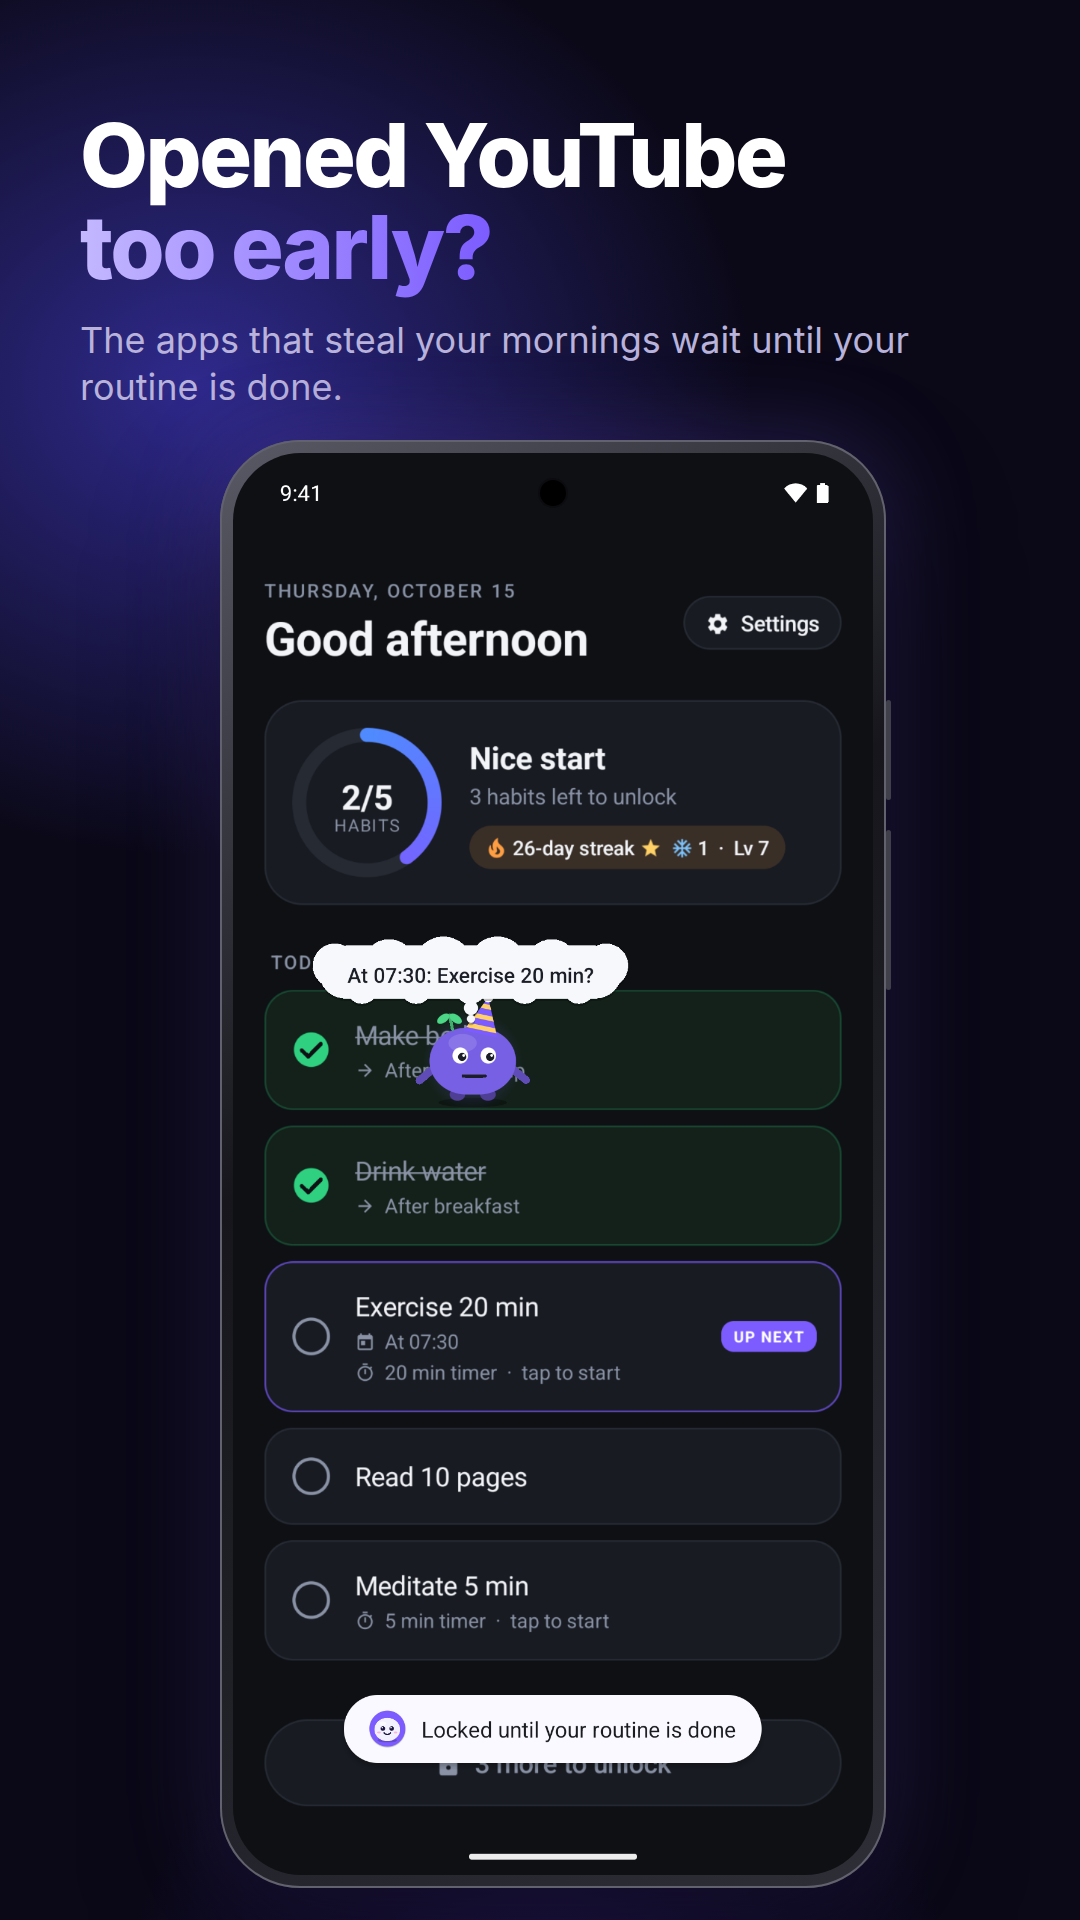
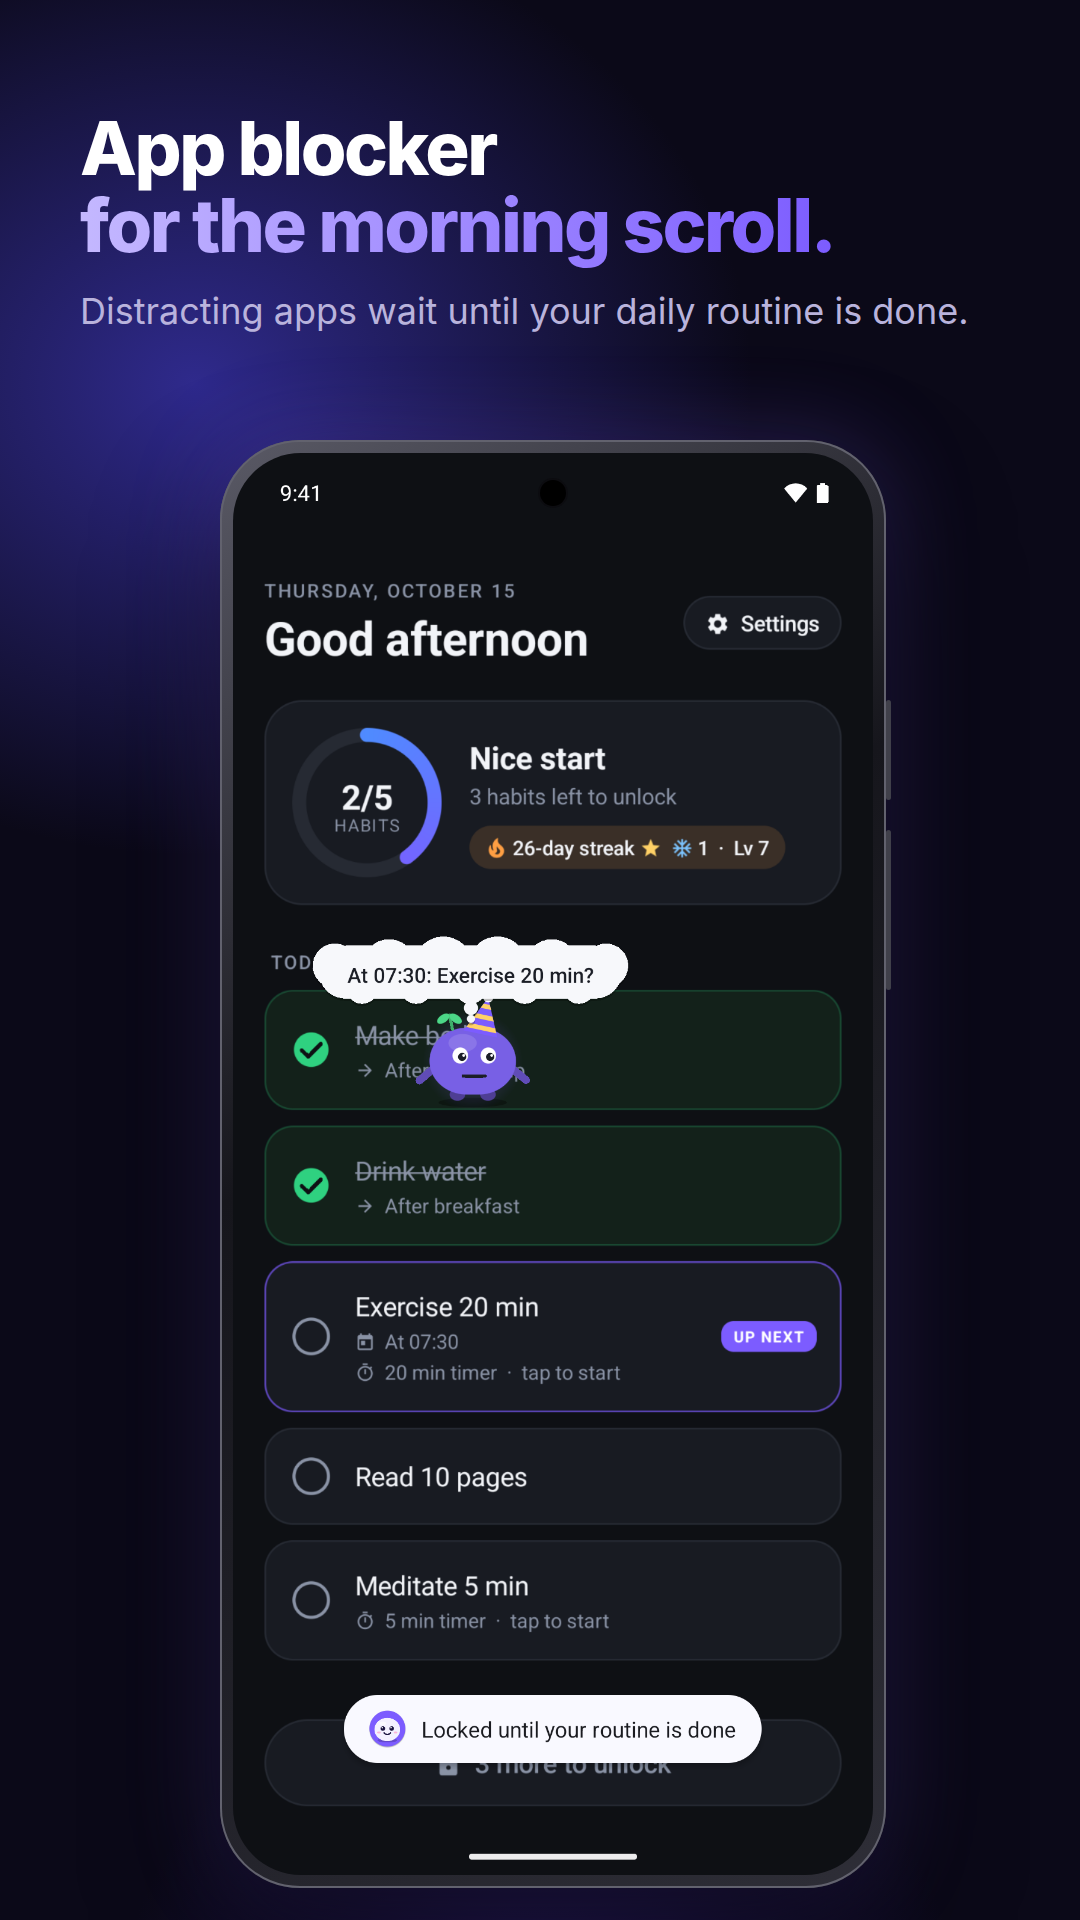
Store listing: keyword-led text and captions, drop third-party app screenshot
Title, short and full descriptions lead with habit tracker / app blocker in
en, es and ca. Screenshot captions carry the search terms and no longer name
YouTube; the buddy-over-Maps screenshot is gone (7 per language). PLAY.md
gains an ASO section.

Claude-Session: https://claude.ai/code/session_01CoAQuG2sDkjkLZrpnx3icQ

Changed region(s): [[0.0611, 0.0625, 0.8861, 0.2188]]

diff --git a/store/PLAY.md b/store/PLAY.md
@@ -9,7 +9,7 @@ variant: no root code). Upload `mingui.aab` built with `./build.sh play aab` (si
 |---|---|---|
 | App icon | `icon-512.png` | 512×512 PNG |
 | Feature graphic | `feature-graphic.png` | 1024×500 |
-| Phone screenshots (per language) | `en/`, `es/`, `ca/` `01_…`–`08_…png` | 1080×1920, 8 each |
+| Phone screenshots (per language) | `en/`, `es/`, `ca/` `01_…`–`07_…png` | 1080×1920, 7 each. The first three show in search results, so they lead with the two search terms (habit tracker, app blocker) |
 | Promo video | `promo/mingui-promo-{en,es,ca}.mp4` | **Play only takes a YouTube URL**: upload there (unlisted is fine) and paste the link |
 
 The promo videos are rendered from `../promo/promo.html` (see `../promo/render.py`) and kept out of git; they're attached to the GitHub release.
@@ -21,116 +21,125 @@ The promo videos are rendered from `../promo/promo.html` (see `../promo/render.p
 **App name** (30 max): `Mingui: Habits & App Blocker`
 
 **Short description** (80 max):
-`Finish today's habits first. Then your distracting apps unlock. 100% offline.`
+`Habit tracker & app blocker: finish your daily routine, then your apps unlock.`
 
 **Full description:**
 
 ```
-Mingui is a daily habit checklist with a little buddy, and it keeps your most distracting apps locked until today's routine is done.
+Mingui is a habit tracker and app blocker in one: a daily routine checklist with a little buddy that keeps your most distracting apps locked until today's habits are done. Build a morning routine that sticks and cut your screen time without the willpower battle.
 
-FINISH FIRST, SCROLL LATER
-Pick the apps that eat your mornings. Open one too early and your checklist covers it. Tick off your habits and they unlock straight away.
+FINISH YOUR HABITS FIRST, SCROLL LATER
+Pick the apps that eat your mornings: social media, videos, games. Open one too early and your habit checklist covers it. Tick off your daily habits and the blocked apps unlock straight away.
 
-A CHECKLIST THAT STICKS
+A HABIT TRACKER THAT STICKS
 • Timers for habits you want to really do, not just tick
 • Weekday schedules, rest days and partial credit
-• Streak freezes, so one bad day doesn't wreck your streak
+• Streak freezes, so one bad day doesn't break your habit streak
 • Forgot to tick something? Fix yesterday
-• Edits that would make today easier start tomorrow, so the routine stays honest
+• Honest edits: changes that would make today's routine easier start tomorrow
+
+AN APP BLOCKER THAT'S FAIR
+• Block any app until your routine is done; work apps can stay allowed
+• Optional focus lock pulls you back to your checklist, with three 5-minute breaks a day
+• "Pause for today" is always there as an emergency exit
 
 A BUDDY ON YOUR SCREEN
 Your buddy walks around your phone, cheers you on and levels up with you. Unlock colours, hats and entrances as your streak grows.
 
-STREAKS & STATS
-A 12-week heatmap, your best streak and the habits that need some love.
-
-FOCUS LOCK (OPTIONAL)
-Pulls you back to the checklist if you wander off, with three 5-minute breaks a day. "Pause for today" is always there as an emergency exit.
+HABIT STREAKS & STATS
+A 12-week habit heatmap, your best streak and the habits that need some love.
 
 100% OFFLINE, NO ACCOUNTS
 Mingui doesn't have Android's internet permission, so it can't send anything anywhere. No accounts, ads, analytics or trackers. Your habits stay on your phone.
 
-Also: a home-screen widget, backups to a file you keep, and English, Spanish and Catalan.
+ALSO INCLUDED
+A home-screen widget, backups to a file you keep, and English, Spanish and Catalan. Open source (GPL-3.0): github.com/abysstudio/mingui
 
-Open source (GPL-3.0): github.com/abysstudio/mingui
+Install Mingui, add three habits for tomorrow morning and get your mornings back.
 ```
 
 ### Español (es-ES)
 
-**Nombre**: `Mingui: Hábitos y bloqueo`
+**Nombre**: `Mingui: Hábitos, bloquea apps`
 
 **Descripción breve**:
-`Primero tus hábitos de hoy. Luego tus apps se desbloquean. 100 % sin conexión.`
+`Hábitos diarios y bloqueo de apps: acaba tu rutina y tus apps se desbloquean.`
 
 **Descripción completa:**
 
 ```
-Mingui es una lista de hábitos diarios con una pequeña mascota, y mantiene bloqueadas las apps que más te distraen hasta que terminas la rutina de hoy.
+Mingui es un registro de hábitos y un bloqueador de apps en uno: una lista de hábitos diarios con una pequeña mascota que mantiene bloqueadas las apps que más te distraen hasta que terminas la rutina de hoy. Crea una rutina de mañana que funcione y reduce tu tiempo de pantalla sin pelearte con tu fuerza de voluntad.
 
-PRIMERO TERMINA, LUEGO SCROLLEA
-Elige las apps que te roban la mañana. Si abres una demasiado pronto, tu lista la tapa. Marca tus hábitos y se desbloquean al momento.
+PRIMERO TUS HÁBITOS, LUEGO EL SCROLL
+Elige las apps que te roban la mañana: redes sociales, vídeos, juegos. Si abres una demasiado pronto, tu lista de hábitos la tapa. Marca tus hábitos diarios y las apps bloqueadas se abren al momento.
 
-UNA LISTA QUE FUNCIONA
+UN REGISTRO DE HÁBITOS QUE FUNCIONA
 • Temporizadores para los hábitos que quieres hacer de verdad
 • Días de la semana, días de descanso y crédito parcial
-• Congeladores de racha, para que un mal día no la rompa
+• Congeladores de racha, para que un mal día no rompa tu racha
 • ¿Olvidaste marcar algo? Corrige el día de ayer
-• Los cambios que harían más fácil el día de hoy empiezan mañana, para que la rutina sea honesta
+• Cambios honestos: lo que haría más fácil la rutina de hoy empieza mañana
+
+UN BLOQUEADOR DE APPS JUSTO
+• Bloquea cualquier app hasta que acabes tu rutina; las apps de trabajo pueden quedar permitidas
+• El modo concentración opcional te devuelve a la lista, con tres descansos de 5 minutos al día
+• «Pausar por hoy» siempre está ahí como salida de emergencia
 
 UNA MASCOTA EN TU PANTALLA
 Tu mascota pasea por el móvil, te anima y sube de nivel contigo. Desbloquea colores, gorros y entradas a medida que crece tu racha.
 
-RACHAS Y ESTADÍSTICAS
+RACHAS Y ESTADÍSTICAS DE HÁBITOS
 Un mapa de 12 semanas, tu mejor racha y los hábitos que necesitan un empujón.
-
-BLOQUEO DE CONCENTRACIÓN (OPCIONAL)
-Te devuelve a la lista si te despistas, con tres descansos de 5 minutos al día. «Pausar por hoy» siempre está ahí como salida de emergencia.
 
 100 % SIN CONEXIÓN, SIN CUENTAS
 Mingui no tiene el permiso de internet de Android, así que no puede enviar nada a ningún sitio. Sin cuentas, anuncios, analíticas ni rastreadores. Tus hábitos se quedan en tu móvil.
 
-Además: widget para la pantalla de inicio, copias de seguridad en un archivo tuyo, y en español, catalán e inglés.
+Y ADEMÁS
+Widget para la pantalla de inicio, copias de seguridad en un archivo tuyo, y en español, catalán e inglés. Código abierto (GPL-3.0): github.com/abysstudio/mingui
 
-Código abierto (GPL-3.0): github.com/abysstudio/mingui
+Instala Mingui, añade tres hábitos para mañana por la mañana y recupera tus mañanas.
 ```
 
 ### Català (ca)
 
-**Nom**: `Mingui: Hàbits i bloqueig`
+**Nom**: `Mingui: Hàbits, bloqueja apps`
 
 **Descripció breu**:
-`Primer els hàbits d'avui. Després les apps es desbloquegen. 100% sense connexió.`
+`Hàbits diaris i bloqueig d'apps: acaba la rutina i les apps es desbloquegen.`
 
 **Descripció completa:**
 
 ```
-Mingui és una llista d'hàbits diaris amb una petita mascota, i manté bloquejades les apps que més et distreuen fins que acabes la rutina d'avui.
+Mingui és un registre d'hàbits i un bloquejador d'apps alhora: una llista d'hàbits diaris amb una petita mascota que manté bloquejades les apps que més et distreuen fins que acabes la rutina d'avui. Crea una rutina de matí que funcioni i redueix el temps de pantalla sense barallar-te amb la força de voluntat.
 
-PRIMER ACABA, DESPRÉS SCROLL
-Tria les apps que et roben el matí. Si n'obres una massa aviat, la llista la tapa. Marca els hàbits i es desbloquegen a l'instant.
+PRIMER ELS HÀBITS, DESPRÉS L'SCROLL
+Tria les apps que et roben el matí: xarxes socials, vídeos, jocs. Si n'obres una massa aviat, la llista d'hàbits la tapa. Marca els hàbits diaris i les apps bloquejades s'obren a l'instant.
 
-UNA LLISTA QUE FUNCIONA
+UN REGISTRE D'HÀBITS QUE FUNCIONA
 • Temporitzadors per als hàbits que vols fer de debò
 • Dies de la setmana, dies de descans i crèdit parcial
-• Congeladors de ratxa, perquè un mal dia no la trenqui
+• Congeladors de ratxa, perquè un mal dia no trenqui la ratxa
 • T'has oblidat de marcar alguna cosa? Corregeix ahir
-• Els canvis que farien més fàcil el dia d'avui comencen demà, perquè la rutina sigui honesta
+• Canvis honestos: el que faria més fàcil la rutina d'avui comença demà
+
+UN BLOQUEJADOR D'APPS JUST
+• Bloqueja qualsevol app fins que acabis la rutina; les apps de feina poden quedar permeses
+• El mode concentració opcional et torna a la llista, amb tres descansos de 5 minuts al dia
+• «Pausa per avui» sempre hi és com a sortida d'emergència
 
 UNA MASCOTA A LA PANTALLA
 La mascota passeja pel mòbil, t'anima i puja de nivell amb tu. Desbloqueja colors, barrets i entrades a mesura que creix la ratxa.
 
-RATXES I ESTADÍSTIQUES
+RATXES I ESTADÍSTIQUES D'HÀBITS
 Un mapa de 12 setmanes, la teva millor ratxa i els hàbits que necessiten una empenta.
-
-BLOQUEIG DE CONCENTRACIÓ (OPCIONAL)
-Et torna a la llista si et despistes, amb tres descansos de 5 minuts al dia. «Pausa per avui» sempre hi és com a sortida d'emergència.
 
 100 % SENSE CONNEXIÓ, SENSE COMPTES
 Mingui no té el permís d'internet d'Android, així que no pot enviar res enlloc. Sense comptes, anuncis, analítiques ni rastrejadors. Els teus hàbits es queden al mòbil.
 
-A més: giny per a la pantalla d'inici, còpies de seguretat en un fitxer teu, i en català, castellà i anglès.
+I A MÉS
+Giny per a la pantalla d'inici, còpies de seguretat en un fitxer teu, i en català, castellà i anglès. Codi obert (GPL-3.0): github.com/abysstudio/mingui
 
-Codi obert (GPL-3.0): github.com/abysstudio/mingui
+Instal·la Mingui, afegeix tres hàbits per a demà al matí i recupera els teus matins.
 ```
 
 **Category:** Productivity · **Tags:** Habit tracker, Productivity, Self-improvement · **Contact email:** required, use the studio address · **Website:** https://abysstudio.github.io/mingui/
@@ -154,6 +163,17 @@ Codi obert (GPL-3.0): github.com/abysstudio/mingui
 • Les apps bloquejades es tapen més ràpid
 </ca>
 ```
+
+## Search optimisation (ASO)
+
+Google Play indexes the title, short description, full description and release notes, then ranks by quality signals (installs, retention, ratings, Android vitals).
+
+- **Target terms:** habit tracker, app blocker, daily habits, daily routine, morning routine, screen time, focus. ES: hábitos diarios, registro de hábitos, bloqueador de apps, rutina, tiempo de pantalla. CA: hàbits diaris, bloquejador d'apps, rutina, temps de pantalla.
+- **Title** = brand + the two main terms. **Short description** opens with them. **Full description** puts them in the first two sentences and repeats each 3–5 times naturally, ending with a call to action.
+- **Screenshots:** captions carry the terms (Habit tracker / App blocker / Habit streaks). No third-party apps or logos.
+- **Video:** the promo is 25 s and shows the app from the first second. Its first frame replaces screenshot 1 in the listing, so check the YouTube thumbnail before linking it.
+- **After launch:** run a Store listing experiment on the icon first, then screenshot 1. Reply to every review (reviewers are notified and often update their rating). Keep crash rate < 1 % and ANR < 0.5 % in Android vitals. Change one field at a time, every 4–6 weeks.
+- **Web:** the website (abysstudio.github.io/mingui) and the GitHub README link to the Play listing once it's live; links from the web count toward ranking.
 
 ## App content (Policy → App content)
 
@@ -211,5 +231,5 @@ No account or login. To see app blocking:
 
 ## Review risks to keep an eye on
 
-- **Other brands in screenshots/video.** Screenshot 2 and the promo show "YouTube" as the example of a blocked app. Describing which apps you can block is normally fine, but Google's metadata policy dislikes third-party brand names in listings; if a reviewer objects, swap the example for a generic one. The listing text above avoids brand names on purpose.
+- **Other brands in the video.** The screenshots no longer name or show any third-party app, but the promo video still shows "YouTube" as the example of a blocked app. Describing which apps you can block is normally fine, but Google's metadata policy dislikes third-party brand names in listings; if a reviewer objects, swap the example for a generic one. The listing text above avoids brand names on purpose.
 - **Overlay over other apps.** It's only shown over apps the user chose to block, and there's always an exit (Pause for today), which is what reviewers check for in "app blocker" apps.
